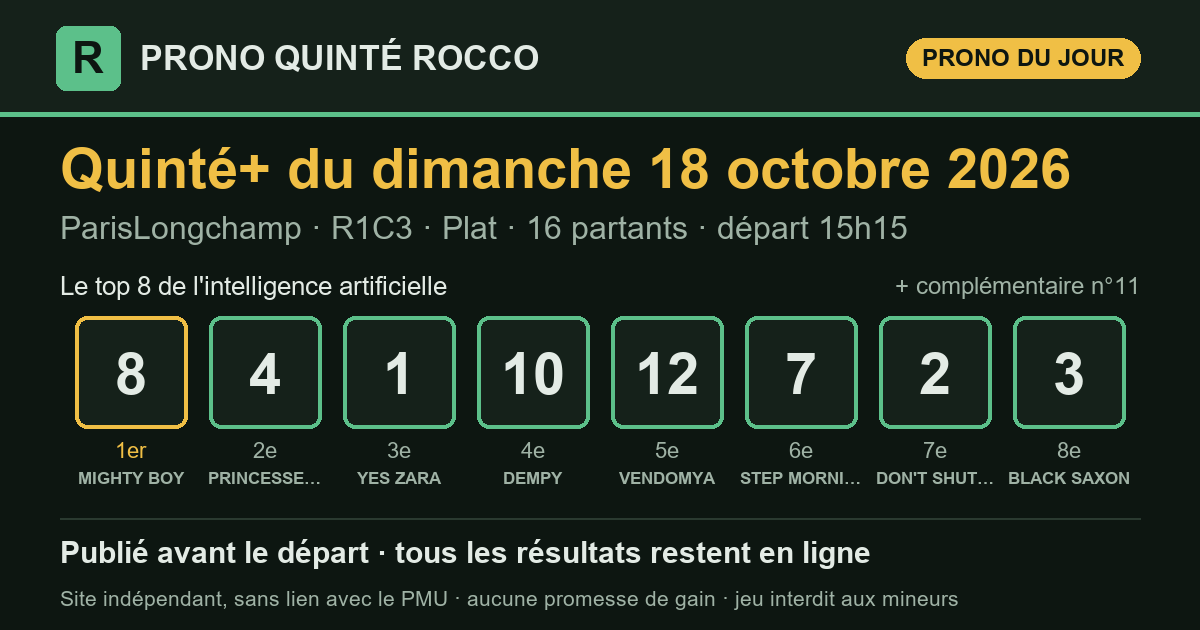
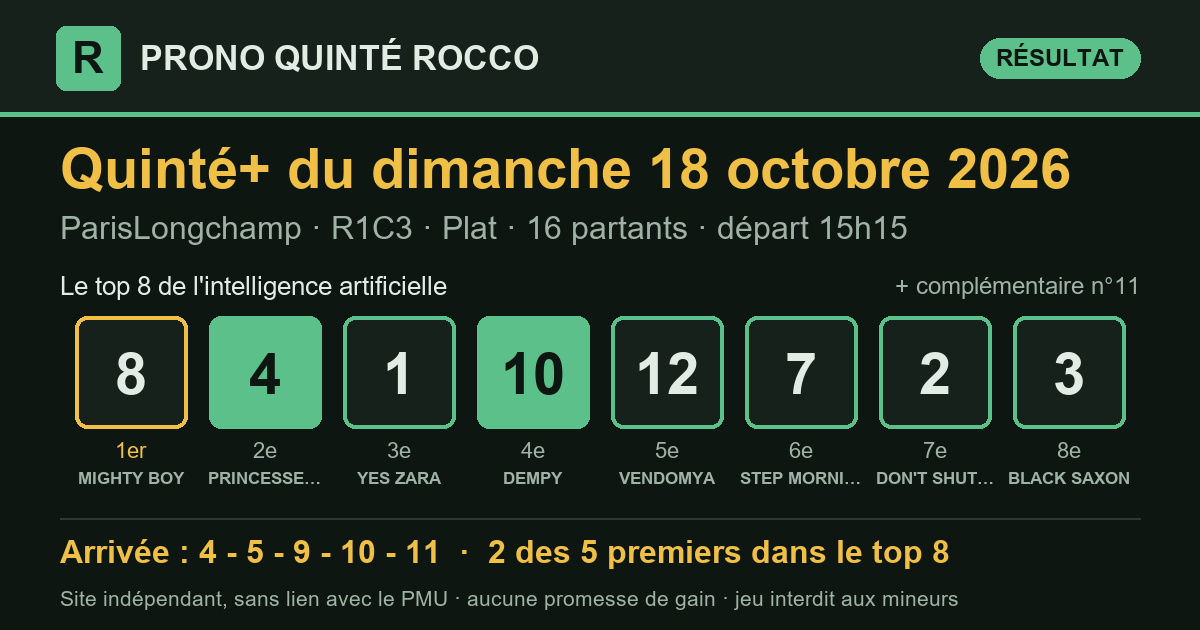
Prono Quinté+ 2026-10-18 ParisLongchamp R1C3 — publié le 18/10/2026 15:32 (heure de Paris)

diff --git a/partants.html b/partants.html
@@ -3,7 +3,7 @@
 <head>
 <meta charset="utf-8">
 <meta name="viewport" content="width=device-width, initial-scale=1, viewport-fit=cover">
-<title>Partants du Quinté+ du dimanche 18 octobre 2026 — Prono Quinté Rocco</title>
+<title>Partants du Quinté+ du lundi 19 octobre 2026 — Prono Quinté Rocco</title>
 <meta name="description" content="Les partants du prochain Quinté+ (programme officiel du PMU), avec le rang du prono IA et les liens vers les pronostics de la presse.">
 <link rel="canonical" href="https://prono-quinte-rocco.fr/partants.html">
 <link rel="stylesheet" href="style.css?v=3c55eb2c">
@@ -13,7 +13,7 @@
 <meta property="og:site_name" content="Prono Quinté Rocco">
 <meta property="og:locale" content="fr_FR">
 <meta property="og:type" content="website">
-<meta property="og:title" content="Partants du Quinté+ du dimanche 18 octobre 2026 — Prono Quinté Rocco">
+<meta property="og:title" content="Partants du Quinté+ du lundi 19 octobre 2026 — Prono Quinté Rocco">
 <meta property="og:description" content="Les partants du prochain Quinté+ (programme officiel du PMU), avec le rang du prono IA et les liens vers les pronostics de la presse.">
 <meta property="og:url" content="https://prono-quinte-rocco.fr/partants.html">
 <meta name="twitter:card" content="summary">
@@ -29,100 +29,100 @@
   <p class="surtitre">Programme officiel du PMU</p>
   <h1>Les partants du prochain Quinté+</h1>
   <div class="fiche-course">
-    <p class="fiche-date">Dimanche 18 octobre 2026</p>
-    <div class="fiche-rc"><span class="pastille" title="Réunion 1">R1</span><span class="pastille" title="Course 3">C3</span><span class="fiche-nom">Prix Rieussec</span></div>
-    <p class="meta">ParisLongchamp · Plat · 3 100 m · 16 partants</p>
-    <p class="fiche-depart">Départ <b>15:15</b> <span>heure de Paris</span></p>
+    <p class="fiche-date">Lundi 19 octobre 2026</p>
+    <div class="fiche-rc"><span class="pastille" title="Réunion 1">R1</span><span class="pastille" title="Course 1">C1</span><span class="fiche-nom">Prix de la Foret de Lyons</span></div>
+    <p class="meta">Deauville · Plat · 1 900 m · 16 partants</p>
+    <p class="fiche-depart">Départ <b>13:55</b> <span>heure de Paris</span></p>
   </div>
   <p class="surtitre">Les pronostics ailleurs sur le web</p>
-  <div class="liens"><a class="lien-ext" href="https://www.turfoo.fr/programmes-courses/261018/reunion1-longchamp/course3-prix-rieussec/pronostics-presse/" rel="noopener" target="_blank"><b>Les pronostics de la presse →</b><span>sur Turfoo (site extérieur)</span></a><a class="lien-ext" href="https://www.geny.com/programme/2026-10-18" rel="noopener" target="_blank"><b>Partants et pronostics →</b><span>programme du jour sur Geny (site extérieur)</span></a></div>
+  <div class="liens"><a class="lien-ext" href="https://www.turfoo.fr/programmes-courses/261019/reunion1-deauville/course1-prix-de-la-foret-de-lyons/pronostics-presse/" rel="noopener" target="_blank"><b>Les pronostics de la presse →</b><span>sur Turfoo (site extérieur)</span></a><a class="lien-ext" href="https://www.geny.com/programme/2026-10-19" rel="noopener" target="_blank"><b>Partants et pronostics →</b><span>programme du jour sur Geny (site extérieur)</span></a></div>
   <div class="liste-boite"><table class="liste-partants">
     <thead><tr><th>N°</th><th>Cheval</th><th class="cote"><span class="long">Cote du matin</span><span class="court">Cote</span></th>
     <th class="ia"><span class="long">Prono IA</span><span class="court">IA</span></th></tr></thead>
     <tbody><tr>
   <td><span class="tapis petit">1</span></td>
-  <td><span class="cheval">YES ZARA</span><span class="sous">M.VELON · C.FEY (S)</span></td>
-  <td class="cote num">16,0</td>
-  <td class="ia"><span class="etat place">3<sup>e</sup></span></td>
+  <td><span class="cheval">TIEGO THE FIRST</span><span class="sous">M.BARZALONA · P&amp;J.BRANDT (S)</span></td>
+  <td class="cote num">—</td>
+  <td class="ia">—</td>
 </tr><tr>
   <td><span class="tapis petit">2</span></td>
-  <td><span class="cheval">DON&#x27;T SHUT ME DOWN</span><span class="sous">M.GUYON · P&amp;J.BRANDT (S)</span></td>
-  <td class="cote num">11,0</td>
-  <td class="ia"><span class="etat place">7<sup>e</sup></span></td>
+  <td><span class="cheval">ZELORO</span><span class="sous">M.GUYON · P&amp;J.BRANDT (S)</span></td>
+  <td class="cote num">—</td>
+  <td class="ia">—</td>
 </tr><tr>
   <td><span class="tapis petit">3</span></td>
-  <td><span class="cheval">BLACK SAXON</span><span class="sous">A.MADAMET · N.BELLANGER (S)</span></td>
-  <td class="cote num">15,0</td>
-  <td class="ia"><span class="etat place">8<sup>e</sup></span></td>
+  <td><span class="cheval">ROCK BLANC</span><span class="sous">I.MENDIZABAL · M.DELZANGLES</span></td>
+  <td class="cote num">—</td>
+  <td class="ia">—</td>
 </tr><tr>
   <td><span class="tapis petit">4</span></td>
-  <td><span class="cheval">PRINCESSE D&#x27;AMOUR</span><span class="sous">C.SOUMILLON · JPH .DUBOIS</span></td>
-  <td class="cote num">5,6</td>
-  <td class="ia"><span class="etat place">2<sup>e</sup></span></td>
+  <td><span class="cheval">CELESTIAL</span><span class="sous">C.LECOEUVRE · S.WATTEL (S)</span></td>
+  <td class="cote num">—</td>
+  <td class="ia">—</td>
 </tr><tr>
   <td><span class="tapis petit">5</span></td>
-  <td><span class="cheval">A BEAUREGARD</span><span class="sous">D.PROVOST · M.CESANDRI (S)</span></td>
-  <td class="cote num">56,0</td>
+  <td><span class="cheval">AL MAX</span><span class="sous">C.DEMURO · P.DECOUZ (S)</span></td>
+  <td class="cote num">—</td>
   <td class="ia">—</td>
 </tr><tr>
   <td><span class="tapis petit">6</span></td>
-  <td><span class="cheval">FERDINAND PREMIER</span><span class="sous">C.LECOEUVRE · J.TASTAYRE (S)</span></td>
-  <td class="cote num">45,0</td>
+  <td><span class="cheval">ROMAN FORUM</span><span class="sous">T.BACHELOT · CH.GOURDAIN (S)</span></td>
+  <td class="cote num">—</td>
   <td class="ia">—</td>
 </tr><tr>
   <td><span class="tapis petit">7</span></td>
-  <td><span class="cheval">STEP MORNING</span><span class="sous">T.BACHELOT · MME L.HEBRARD DE VEYRINAS</span></td>
-  <td class="cote num">9,4</td>
-  <td class="ia"><span class="etat place">6<sup>e</sup></span></td>
+  <td><span class="cheval">WAKABURN</span><span class="sous">A.LEMAITRE · M.KREBS (S)</span></td>
+  <td class="cote num">—</td>
+  <td class="ia">—</td>
 </tr><tr>
   <td><span class="tapis petit">8</span></td>
-  <td><span class="cheval">MIGHTY BOY</span><span class="sous">S.PASQUIER · ED.MONFORT (S)</span></td>
-  <td class="cote num">4,8</td>
-  <td class="ia"><span class="etat place">1<sup>er</sup></span></td>
+  <td><span class="cheval">GUILLERETTE</span><span class="sous">F.VALLE SKAR · MME C.BARANDE BARBE</span></td>
+  <td class="cote num">—</td>
+  <td class="ia">—</td>
 </tr><tr>
   <td><span class="tapis petit">9</span></td>
-  <td><span class="cheval">RAM SEA</span><span class="sous">L.BRECHET · D.MELE (S)</span></td>
-  <td class="cote num">26,0</td>
+  <td><span class="cheval">WEDGEWOOD PEARL</span><span class="sous">A.MOLINS · P.CHEVIGNY DE</span></td>
+  <td class="cote num">—</td>
   <td class="ia">—</td>
 </tr><tr>
   <td><span class="tapis petit">10</span></td>
-  <td><span class="cheval">DEMPY</span><span class="sous">C.DEMURO · D.BONILLA (S)</span></td>
-  <td class="cote num">8,4</td>
-  <td class="ia"><span class="etat place">4<sup>e</sup></span></td>
+  <td><span class="cheval">EVERSTAR</span><span class="sous">M.GRANDIN · L.GADBIN (S)</span></td>
+  <td class="cote num">—</td>
+  <td class="ia">—</td>
 </tr><tr>
   <td><span class="tapis petit">11</span></td>
-  <td><span class="cheval">IKKO</span><span class="sous">R.THOMAS · G.MOSSE (S)</span></td>
-  <td class="cote num">17,0</td>
-  <td class="ia"><span class="etat place">compl.</span></td>
+  <td><span class="cheval">NOLITO</span><span class="sous">T.PICCONE · MME S.GAVILAN</span></td>
+  <td class="cote num">—</td>
+  <td class="ia">—</td>
 </tr><tr>
   <td><span class="tapis petit">12</span></td>
-  <td><span class="cheval">VENDOMYA</span><span class="sous">A.LEMAITRE · F.BRESSON (S)</span></td>
-  <td class="cote num">12,0</td>
-  <td class="ia"><span class="etat place">5<sup>e</sup></span></td>
+  <td><span class="cheval">ALLURRE</span><span class="sous">D.PROVOST · M.CESANDRI (S)</span></td>
+  <td class="cote num">—</td>
+  <td class="ia">—</td>
 </tr><tr>
   <td><span class="tapis petit">13</span></td>
-  <td><span class="cheval">RECOLETTY</span><span class="sous">E.HARDOUIN · S.CERULIS</span></td>
-  <td class="cote num">22,0</td>
+  <td><span class="cheval">FEARLESS CHEETAH</span><span class="sous">S.PASQUIER · F.BRESSON (S)</span></td>
+  <td class="cote num">—</td>
   <td class="ia">—</td>
 </tr><tr>
   <td><span class="tapis petit">14</span></td>
-  <td><span class="cheval">ZARFLIGHT</span><span class="sous">A.CRASTUS · GAB.LEENDERS (S)</span></td>
-  <td class="cote num">24,0</td>
+  <td><span class="cheval">EAST GREY</span><span class="sous">A.POUCHIN · E.LIBAUD (S)</span></td>
+  <td class="cote num">—</td>
   <td class="ia">—</td>
 </tr><tr>
   <td><span class="tapis petit">15</span></td>
-  <td><span class="cheval">FANTASTICO</span><span class="sous">C.PACAUT · M.BERTO</span></td>
-  <td class="cote num">48,0</td>
+  <td><span class="cheval">SENORITO</span><span class="sous">R.MANGIONE · N.PERRET (S)</span></td>
+  <td class="cote num">—</td>
   <td class="ia">—</td>
 </tr><tr>
   <td><span class="tapis petit">16</span></td>
-  <td><span class="cheval">MEASTER OWEN</span><span class="sous">L.PLOMMEE · M.CESANDRI (S)</span></td>
-  <td class="cote num">38,0</td>
+  <td><span class="cheval">CICCIO BOY</span><span class="sous">M.JUSTUM · M.JUSTUM</span></td>
+  <td class="cote num">—</td>
   <td class="ia">—</td>
 </tr></tbody>
   </table></div>
-  <p class="meta">Le rang du prono IA est celui publié sur ce site. Sous chaque cheval : jockey · entraîneur. Partants et cotes : programme
-  officiel du PMU, lu le 18/10 à 09:53 (heure de Paris). NP = non-partant.</p>
+  <p class="meta">Le prono IA de cette course sera publié le matin de la course, avant le départ. Sous chaque cheval : jockey · entraîneur. Partants et cotes : programme
+  officiel du PMU, lu le 18/10 à 15:32 (heure de Paris). NP = non-partant.</p>
 </section>
 </main>
 <footer class="pied">

diff --git a/index.html b/index.html
@@ -16,7 +16,7 @@
 <meta property="og:title" content="Pronostic Quinté+ du dimanche 18 octobre 2026 — Prono Quinté Rocco">
 <meta property="og:description" content="Le pronostic du Quinté+ par intelligence artificielle, publié avant le départ, avec tous les résultats et le rendement réel.">
 <meta property="og:url" content="https://prono-quinte-rocco.fr/">
-<meta property="og:image" content="https://prono-quinte-rocco.fr/partage/2026-10-18.png?v=f7974f9a">
+<meta property="og:image" content="https://prono-quinte-rocco.fr/partage/2026-10-18.png?v=0fc45bf2">
 <meta property="og:image:type" content="image/png">
 <meta property="og:image:width" content="1200">
 <meta property="og:image:height" content="630">
@@ -31,15 +31,15 @@
 </header>
 <main>
 <section class="une" aria-labelledby="t-jour">
-  <p class="surtitre">Quinté+ du jour</p>
+  <p class="surtitre">Dernier Quinté+</p>
   <h1 id="t-jour">Le prono du Quinté+, résultats compris</h1>
   <p class="chapo">Chaque matin, une intelligence artificielle classe les partants du
   Quinté+. Le classement est publié avant le départ, puis comparé à l'arrivée
   officielle. Tous les résultats restent en ligne, les bons comme les mauvais.</p>
   <article class="carte-course">
-  <div class="tete"><h2>Dimanche 18 octobre 2026</h2><span class="etat attente">arrivée en attente</span></div>
+  <div class="tete"><h2>Dimanche 18 octobre 2026</h2><span class="etat place">2 des 5 premiers dans le top 8</span></div>
   <p class="meta">ParisLongchamp · <strong>R1C3</strong> · Plat · 16 partants · lisibilité <span class="note" aria-label="note 2 sur 5"><i class="on"></i><i class="on"></i><i class=""></i><i class=""></i><i class=""></i></span> 2/5</p>
-  <ol class="partants" aria-label="Classement du prono"><li><span class="rang">1<sup>er</sup></span><span class="tapis ">8</span><span class="nom">MIGHTY BOY</span></li><li><span class="rang">2<sup>e</sup></span><span class="tapis ">4</span><span class="nom">PRINCESSE D&#x27;AMOUR</span></li><li><span class="rang">3<sup>e</sup></span><span class="tapis ">1</span><span class="nom">YES ZARA</span></li><li><span class="rang">4<sup>e</sup></span><span class="tapis ">10</span><span class="nom">DEMPY</span></li><li><span class="rang">5<sup>e</sup></span><span class="tapis ">12</span><span class="nom">VENDOMYA</span></li><li><span class="rang">6<sup>e</sup></span><span class="tapis ">7</span><span class="nom">STEP MORNING</span></li><li><span class="rang">7<sup>e</sup></span><span class="tapis ">2</span><span class="nom">DON&#x27;T SHUT ME DOWN</span></li><li><span class="rang">8<sup>e</sup></span><span class="tapis ">3</span><span class="nom">BLACK SAXON</span></li><li><span class="rang">compl.</span><span class="tapis creux">11</span><span class="nom">IKKO</span></li></ol>
+  <ol class="partants" aria-label="Classement du prono"><li><span class="rang">1<sup>er</sup></span><span class="tapis ">8</span><span class="nom">MIGHTY BOY</span></li><li><span class="rang">2<sup>e</sup></span><span class="tapis plein">4</span><span class="nom">PRINCESSE D&#x27;AMOUR</span></li><li><span class="rang">3<sup>e</sup></span><span class="tapis ">1</span><span class="nom">YES ZARA</span></li><li><span class="rang">4<sup>e</sup></span><span class="tapis plein">10</span><span class="nom">DEMPY</span></li><li><span class="rang">5<sup>e</sup></span><span class="tapis ">12</span><span class="nom">VENDOMYA</span></li><li><span class="rang">6<sup>e</sup></span><span class="tapis ">7</span><span class="nom">STEP MORNING</span></li><li><span class="rang">7<sup>e</sup></span><span class="tapis ">2</span><span class="nom">DON&#x27;T SHUT ME DOWN</span></li><li><span class="rang">8<sup>e</sup></span><span class="tapis ">3</span><span class="nom">BLACK SAXON</span></li><li><span class="rang">compl.</span><span class="tapis creux plein">11</span><span class="nom">IKKO</span></li></ol>
   <div class="pied-carte"><span>Analysé le 18/10 à 09:45 · en ligne le 18/10 à 09:53 · départ à 15:15 (heure de Paris)</span><span><a href="quinte/2026-10-18.html">Détail de la course</a></span></div>
 </article>
   <div class="legende"><span><span class="tapis plein petit">4</span> numéro dans les 5 premiers</span>
@@ -62,7 +62,7 @@
 </section>
 <section class="bilan" aria-labelledby="t-bilan">
   <h2 id="t-bilan">Le bilan depuis le 8 septembre 2026</h2>
-  <div class="tableau chiffres"><div class="case"><span class="gros ">76 %</span><span class="lib">des arrivants trouvés dans le top 8</span><span class="ref">un top 8 tiré au hasard : 51 %</span></div><div class="case"><span class="gros ">87 %</span><span class="lib">des gagnants présents dans le top 8</span><span class="ref"></span></div><div class="case"><span class="gros ">51 %</span><span class="lib">1er du prono placé</span><span class="ref">sur 39 Quintés</span></div><div class="case"><span class="gros perte">0,95 €</span><span class="lib">rendus pour 1 € joué placé sur le 1er</span><span class="ref">rapports officiels PMU</span></div><div class="case"><span class="gros perte">0,54 €</span><span class="lib">rendus pour 1 € joué en Quinté+ combiné top 8</span><span class="ref">56 combinaisons, rapports PMU.fr, sur 39 Quintés</span></div></div>
+  <div class="tableau chiffres"><div class="case"><span class="gros ">75 %</span><span class="lib">des arrivants trouvés dans le top 8</span><span class="ref">un top 8 tiré au hasard : 51 %</span></div><div class="case"><span class="gros ">88 %</span><span class="lib">des gagnants présents dans le top 8</span><span class="ref"></span></div><div class="case"><span class="gros ">51 %</span><span class="lib">1er du prono placé</span><span class="ref">sur 39 Quintés</span></div><div class="case"><span class="gros perte">0,95 €</span><span class="lib">rendus pour 1 € joué placé sur le 1er</span><span class="ref">rapports officiels PMU</span></div><div class="case"><span class="gros perte">0,53 €</span><span class="lib">rendus pour 1 € joué en Quinté+ combiné top 8</span><span class="ref">56 combinaisons, rapports PMU.fr, sur 40 Quintés</span></div></div>
   <p class="avertissement">Moins de 1 € rendu pour 1 € joué : suivre ce prono à la lettre fait <strong>perdre de l'argent</strong> sur cette période. Il sert à analyser une course, pas à promettre un gain.</p>
 </section>
 </main>

diff --git a/quinte/2026-10-18.html b/quinte/2026-10-18.html
@@ -16,7 +16,7 @@
 <meta property="og:title" content="Pronostic Quinté+ du dimanche 18 octobre 2026 à ParisLongchamp — Prono Quinté Rocco">
 <meta property="og:description" content="Prono Quinté+ du dimanche 18 octobre 2026 (ParisLongchamp) : top 8, arrivée officielle et rapports PMU.fr.">
 <meta property="og:url" content="https://prono-quinte-rocco.fr/quinte/2026-10-18.html">
-<meta property="og:image" content="https://prono-quinte-rocco.fr/partage/2026-10-18.png?v=f7974f9a">
+<meta property="og:image" content="https://prono-quinte-rocco.fr/partage/2026-10-18.png?v=0fc45bf2">
 <meta property="og:image:type" content="image/png">
 <meta property="og:image:width" content="1200">
 <meta property="og:image:height" content="630">
@@ -35,11 +35,19 @@
   <h1>Pronostic Quinté+ du dimanche 18 octobre 2026</h1>
   <p class="chapo">ParisLongchamp · R1C3 · Plat · 16 partants</p>
   <article class="carte-course">
-  <div class="tete"><h2>Le prono : top 8 et complémentaire</h2><span class="etat attente">arrivée en attente</span></div>
+  <div class="tete"><h2>Le prono : top 8 et complémentaire</h2><span class="etat place">2 des 5 premiers dans le top 8</span></div>
   <p class="meta">ParisLongchamp · <strong>R1C3</strong> · Plat · 16 partants · lisibilité <span class="note" aria-label="note 2 sur 5"><i class="on"></i><i class="on"></i><i class=""></i><i class=""></i><i class=""></i></span> 2/5</p>
-  <ol class="partants" aria-label="Classement du prono"><li><span class="rang">1<sup>er</sup></span><span class="tapis ">8</span><span class="nom">MIGHTY BOY</span></li><li><span class="rang">2<sup>e</sup></span><span class="tapis ">4</span><span class="nom">PRINCESSE D&#x27;AMOUR</span></li><li><span class="rang">3<sup>e</sup></span><span class="tapis ">1</span><span class="nom">YES ZARA</span></li><li><span class="rang">4<sup>e</sup></span><span class="tapis ">10</span><span class="nom">DEMPY</span></li><li><span class="rang">5<sup>e</sup></span><span class="tapis ">12</span><span class="nom">VENDOMYA</span></li><li><span class="rang">6<sup>e</sup></span><span class="tapis ">7</span><span class="nom">STEP MORNING</span></li><li><span class="rang">7<sup>e</sup></span><span class="tapis ">2</span><span class="nom">DON&#x27;T SHUT ME DOWN</span></li><li><span class="rang">8<sup>e</sup></span><span class="tapis ">3</span><span class="nom">BLACK SAXON</span></li><li><span class="rang">compl.</span><span class="tapis creux">11</span><span class="nom">IKKO</span></li></ol>
+  <ol class="partants" aria-label="Classement du prono"><li><span class="rang">1<sup>er</sup></span><span class="tapis ">8</span><span class="nom">MIGHTY BOY</span></li><li><span class="rang">2<sup>e</sup></span><span class="tapis plein">4</span><span class="nom">PRINCESSE D&#x27;AMOUR</span></li><li><span class="rang">3<sup>e</sup></span><span class="tapis ">1</span><span class="nom">YES ZARA</span></li><li><span class="rang">4<sup>e</sup></span><span class="tapis plein">10</span><span class="nom">DEMPY</span></li><li><span class="rang">5<sup>e</sup></span><span class="tapis ">12</span><span class="nom">VENDOMYA</span></li><li><span class="rang">6<sup>e</sup></span><span class="tapis ">7</span><span class="nom">STEP MORNING</span></li><li><span class="rang">7<sup>e</sup></span><span class="tapis ">2</span><span class="nom">DON&#x27;T SHUT ME DOWN</span></li><li><span class="rang">8<sup>e</sup></span><span class="tapis ">3</span><span class="nom">BLACK SAXON</span></li><li><span class="rang">compl.</span><span class="tapis creux plein">11</span><span class="nom">IKKO</span></li></ol>
   <div class="pied-carte"><span>Analysé le 18/10 à 09:45 · en ligne le 18/10 à 09:53 · départ à 15:15 (heure de Paris)</span><span></span></div>
 </article>
+<section class="carte-course" aria-labelledby="t-arr">
+  <div class="tete"><h2 id="t-arr">Arrivée officielle</h2></div>
+  <div class="rangee"><span class="tapis plein" title="1er">4</span><span class="tapis creux" title="2e">5</span><span class="tapis creux" title="3e">9</span><span class="tapis plein" title="4e">10</span><span class="tapis creux" title="5e">11</span></div>
+  <div class="deux">
+    <div><h3>Ce qu'aurait rendu le prono</h3><dl class="kv"><dt>1 € placé sur le 1er (n°8)</dt><dd>rapport manquant</dd><dt>1 € gagnant sur le 1er</dt><dd>rapport manquant</dd><dt>Quinté+ combiné top 8 (mise 112 €)</dt><dd>0,00 €</dd><dt>dont</dt><dd>aucun gain</dd></dl></div>
+    <div><h3>Rapports officiels</h3><dl class="kv"><dt>e-Quinté+ Ordre (2 €)</dt><dd>240 525,59 €</dd><dt>e-Quinté+ Désordre (2 €)</dt><dd>4 331,80 €</dd><dt>e-Bonus 4sur5 (2 €)</dt><dd>51,80 €</dd><dt>e-Bonus 3 (2 €)</dt><dd>39,00 €</dd></dl></div>
+  </div>
+</section>
 </section>
 </main>
 <footer class="pied">

diff --git a/resultats.html b/resultats.html
@@ -39,8 +39,8 @@
     <tbody><tr>
   <td class="c-date"><a href="quinte/2026-10-18.html">18/10</a></td>
   <td class="c-course">ParisLongchamp<br><span class="meta">R1C3 · Plat</span></td>
-  <td data-label="Top 8 du prono"><div class="rangee"><span class="tapis petit">8</span><span class="tapis petit">4</span><span class="tapis petit">1</span><span class="tapis petit">10</span><span class="tapis petit">12</span><span class="tapis petit">7</span><span class="tapis petit">2</span><span class="tapis petit">3</span></div></td><td data-label="Arrivée"><span class="etat attente">en attente</span></td>
-  <td class="num" data-label="Trouvés">—</td><td data-label="1er du prono"><span class="etat attente">—</span></td><td class="mont" data-label="Quinté+ top 8 (mise 112 €)">—</td>
+  <td data-label="Top 8 du prono"><div class="rangee"><span class="tapis petit">8</span><span class="tapis plein petit">4</span><span class="tapis petit">1</span><span class="tapis plein petit">10</span><span class="tapis petit">12</span><span class="tapis petit">7</span><span class="tapis petit">2</span><span class="tapis petit">3</span></div></td><td data-label="Arrivée"><div class="rangee"><span class="tapis plein petit" title="1er">4</span><span class="tapis creux petit" title="2e">5</span><span class="tapis creux petit" title="3e">9</span><span class="tapis plein petit" title="4e">10</span><span class="tapis creux petit" title="5e">11</span></div></td>
+  <td class="num" data-label="Trouvés">2/5</td><td data-label="1er du prono"><span class="etat non">non placé</span></td><td class="mont perte" data-label="Quinté+ top 8 (mise 112 €)">0,00 €</td>
 </tr><tr>
   <td class="c-date"><a href="quinte/2026-10-17.html">17/10</a></td>
   <td class="c-course">Auteuil<br><span class="meta">R1C3 · Haies</span></td>
@@ -241,7 +241,7 @@
 </section>
 <section class="bilan" aria-labelledby="t-bilan">
   <h2 id="t-bilan">Le bilan depuis le 8 septembre 2026</h2>
-  <div class="tableau chiffres"><div class="case"><span class="gros ">76 %</span><span class="lib">des arrivants trouvés dans le top 8</span><span class="ref">un top 8 tiré au hasard : 51 %</span></div><div class="case"><span class="gros ">87 %</span><span class="lib">des gagnants présents dans le top 8</span><span class="ref"></span></div><div class="case"><span class="gros ">51 %</span><span class="lib">1er du prono placé</span><span class="ref">sur 39 Quintés</span></div><div class="case"><span class="gros perte">0,95 €</span><span class="lib">rendus pour 1 € joué placé sur le 1er</span><span class="ref">rapports officiels PMU</span></div><div class="case"><span class="gros perte">0,54 €</span><span class="lib">rendus pour 1 € joué en Quinté+ combiné top 8</span><span class="ref">56 combinaisons, rapports PMU.fr, sur 39 Quintés</span></div></div>
+  <div class="tableau chiffres"><div class="case"><span class="gros ">75 %</span><span class="lib">des arrivants trouvés dans le top 8</span><span class="ref">un top 8 tiré au hasard : 51 %</span></div><div class="case"><span class="gros ">88 %</span><span class="lib">des gagnants présents dans le top 8</span><span class="ref"></span></div><div class="case"><span class="gros ">51 %</span><span class="lib">1er du prono placé</span><span class="ref">sur 39 Quintés</span></div><div class="case"><span class="gros perte">0,95 €</span><span class="lib">rendus pour 1 € joué placé sur le 1er</span><span class="ref">rapports officiels PMU</span></div><div class="case"><span class="gros perte">0,53 €</span><span class="lib">rendus pour 1 € joué en Quinté+ combiné top 8</span><span class="ref">56 combinaisons, rapports PMU.fr, sur 40 Quintés</span></div></div>
   <p class="avertissement">Moins de 1 € rendu pour 1 € joué : suivre ce prono à la lettre fait <strong>perdre de l'argent</strong> sur cette période. Il sert à analyser une course, pas à promettre un gain.</p>
 </section>
 </main>
